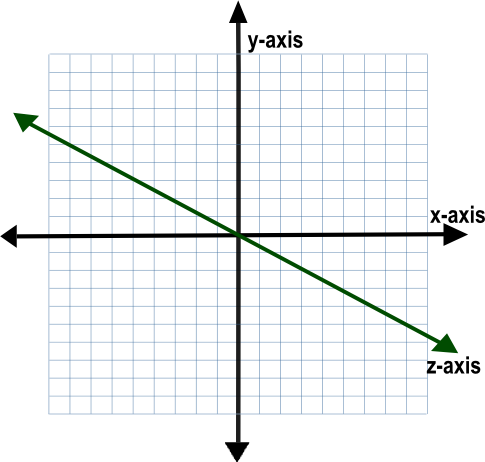
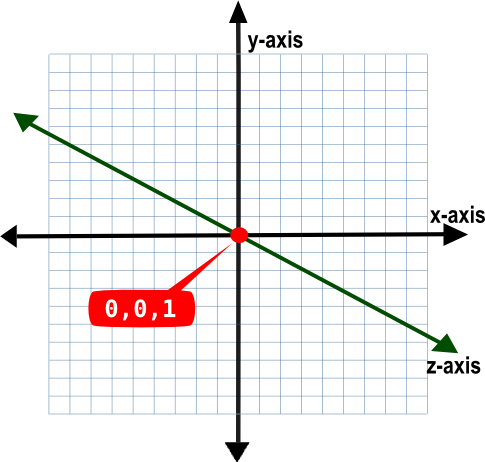
Revising the coordinates image.

Changed region(s): [[0.1856, 0.5455, 0.4639, 0.7273], [0.4639, 0.4848, 0.5258, 0.5455]]

diff --git a/index.html b/index.html
@@ -131,9 +131,9 @@
     <div class="slide" id="CoordinateSystem"><div>
 		<section>
 			<header>
-            <h2>Transforms = Linear Algebra in your browser</h2>
+            <h2>Cartesian Coordinate System</h2>
 			</header>
-			<p><img src="images/coordinates.png" class="center" alt="A coordinate plane with X, Y, and Z axes"></p>
+			<p><img src="images/coordinates.png" class="center" alt="A coordinate plane with X, Y, and Z axes, and an origin of 0,0,1"></p>
 
 		</section>
 	</div></div>
